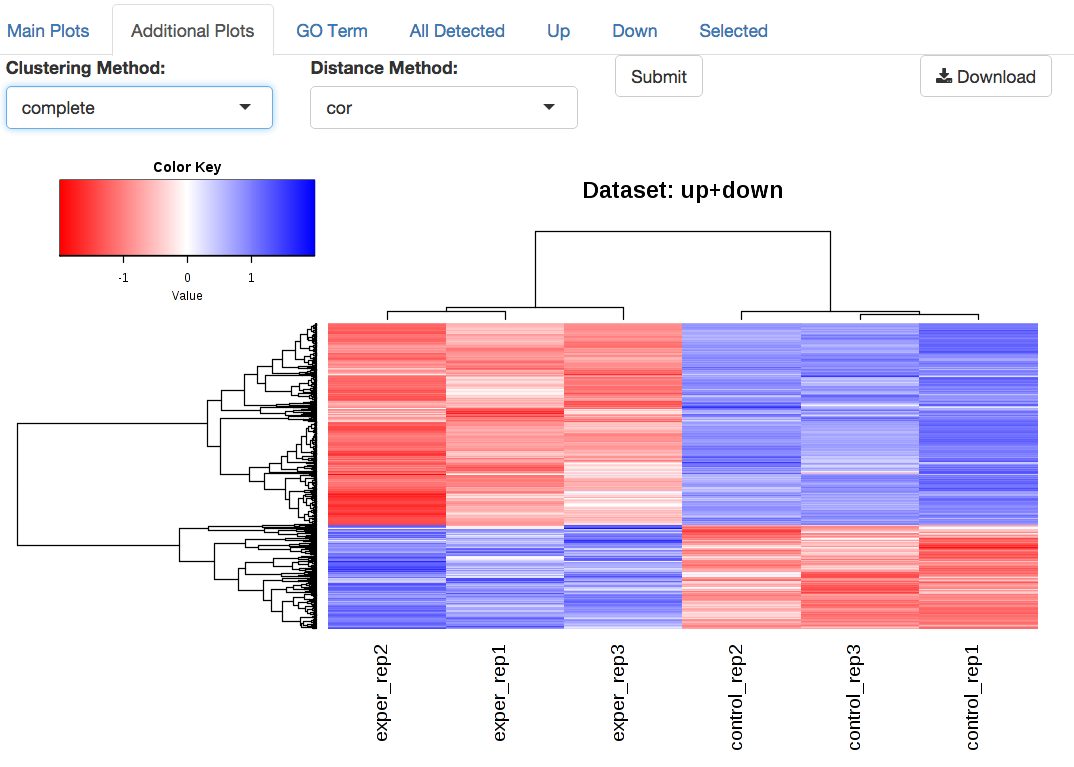
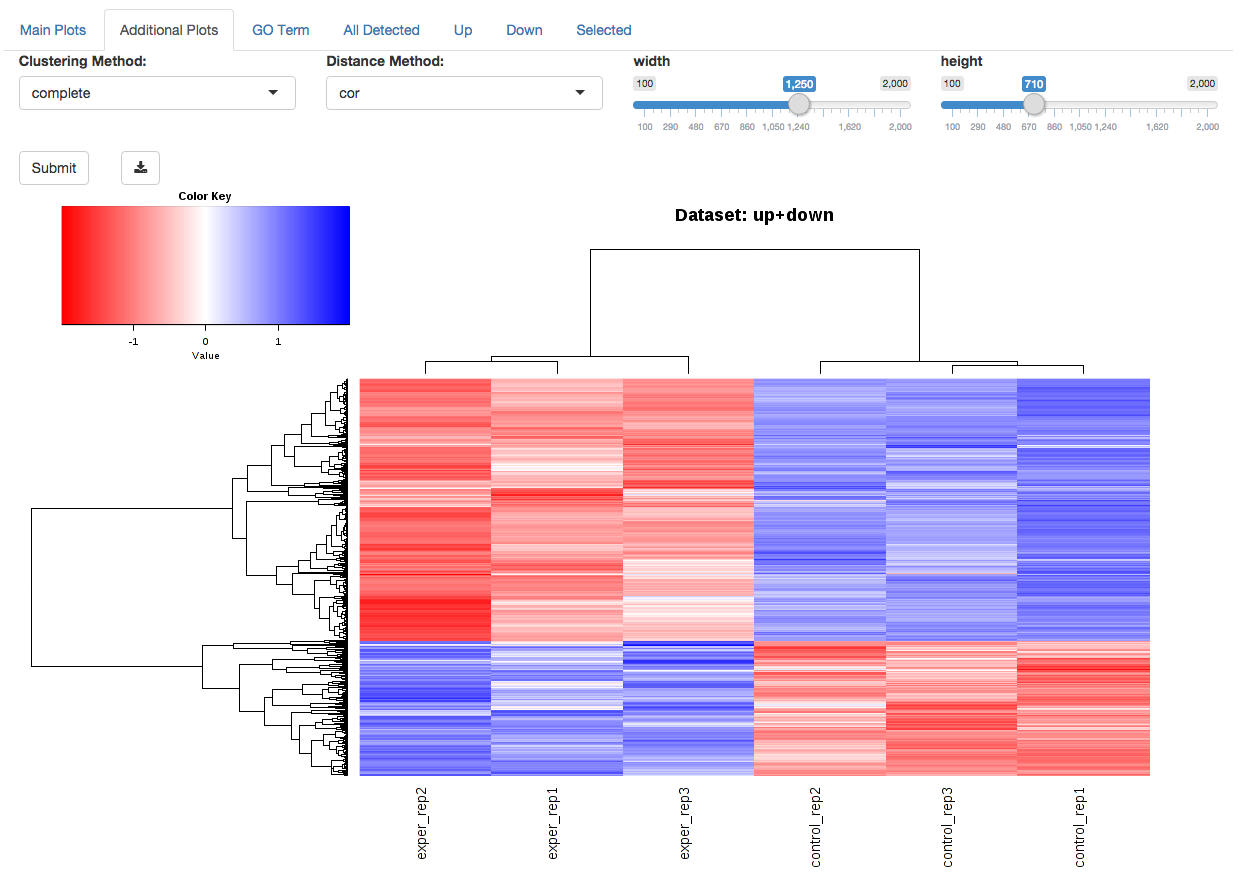
new additional plots photos/text

diff --git a/docs/debrowser/quickstart.rst b/docs/debrowser/quickstart.rst
@@ -128,6 +128,8 @@ The third plot, the PCA plot (Principal Component Analysis)
 .. image:: debrowser_pics/pca.png
 	:align: center
 
+Each additional plot also has options to adjust the plot height and width, as well as a download button for a pdf output located above each plot.
+
 In addition to these exciting additional plots, you also have access to the data generated within table form.
 
 The data generated is also sorted based on the following datasets:
